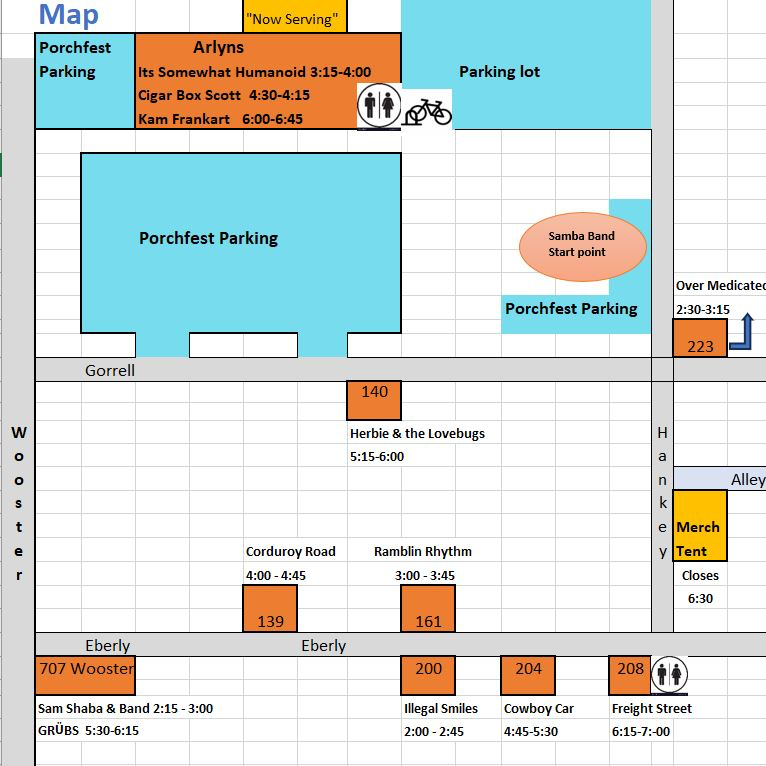
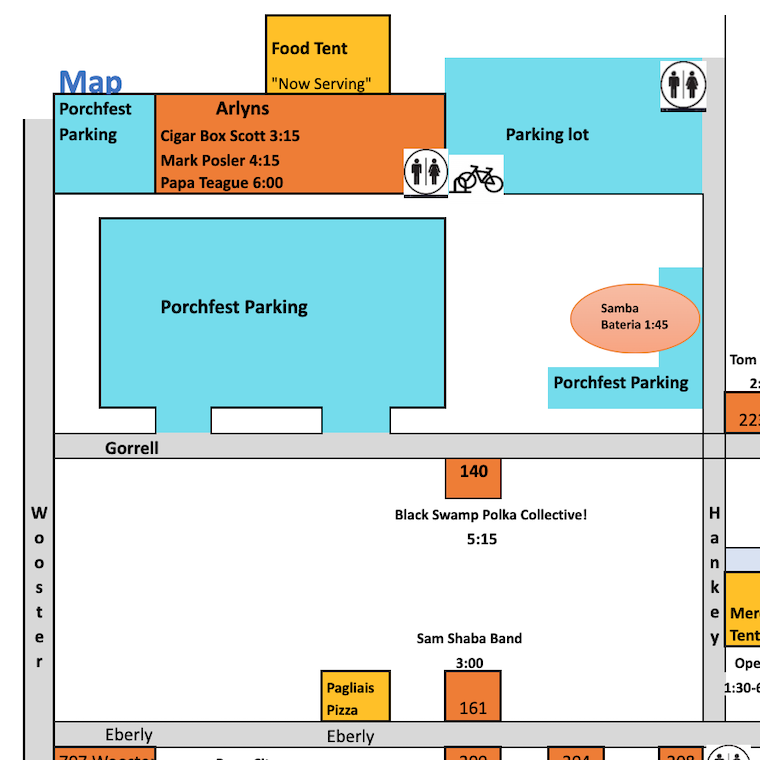
2025 Updates

diff --git a/src/app/ui/Banner.tsx b/src/app/ui/Banner.tsx
@@ -19,18 +19,18 @@ export default function Banner() {
             height={250}
             width={250}
           />
-          <div className='h-5 p-1 text-xl'>2024</div>
+          <div className='h-5 p-1 text-xl'>2025</div>
           <div className='p-1 text-5xl'>Band List</div>
         </Link>
         <Link href='/home/map' className={'mx-12 ' + linkStyle()}>
           <Image
             className='rounded-sm border-2 border-white'
-            alt='2024 Porchfest Map Thumbnail'
+            alt='2025 Porchfest Map Thumbnail'
             src='/PorchfestMap_Small.png'
             height={250}
             width={250}
           />
-          <div className='h-5 p-1 text-xl'>2024</div>
+          <div className='h-5 p-1 text-xl'>2025</div>
           <div className='p-1 text-5xl'>Porch Map</div>
         </Link>
         <Link href='/home/schedule' className={linkStyle()}>
@@ -41,7 +41,7 @@ export default function Banner() {
             height={250}
             width={250}
           />
-          <div className='h-5 p-1 text-xl'>2024</div>
+          <div className='h-5 p-1 text-xl'>2025</div>
           <div className='p-1 text-5xl'>Schedule</div>
         </Link>
       </div>

diff --git a/src/app/home/map/page.tsx b/src/app/home/map/page.tsx
@@ -20,20 +20,20 @@ export default function Map() {
         >
           <div className='flex h-full w-full flex-col items-center justify-center bg-white opacity-85'>
             <h1 className='text-center text-8xl text-dark-blue'>
-              2024 Official Map
+              2025 Official Map
             </h1>
             <h1 className='text-center text-2xl text-dark-blue'>
               (Eberly Avenue and the surrounding area)
             </h1>
           </div>
         </div>
-        <div className='m-8 rounded-3xl border-t-4 border-base-orange bg-white'>
+        <div className='m-8 w-3/4 rounded-3xl border-4 border-dark-blue bg-white'>
           <Link href={mapImg.src} target='_blank'>
             <Image
               src={mapImg}
               className='m-auto rounded-2xl px-4 py-2'
               quality={100}
-              alt='2024 Porchfest Map'
+              alt='2025 Porchfest Map'
             />
           </Link>
         </div>

diff --git a/src/app/ui/SponsorTiles.tsx b/src/app/ui/SponsorTiles.tsx
@@ -29,7 +29,7 @@ export default function SponsorTiles() {
             ' my-6 w-fit border-b-4 px-2 text-center text-2xl text-white'
           }
         >
-          GOLD
+          PLATINUM
         </div>
         <div className='flex flex-row justify-center'>
           <Link
@@ -93,7 +93,7 @@ export default function SponsorTiles() {
             ' my-4 w-fit border-b-4 px-2 text-center text-xl text-white'
           }
         >
-          SILVER
+          GOLD
         </div>
         <div className='flex flex-row justify-center py-2'>
           <Link
@@ -160,7 +160,7 @@ export default function SponsorTiles() {
             ' my-2 w-fit border-b-4 px-2 text-center text-lg text-white'
           }
         >
-          BRONZE
+          SILVER
         </div>
         <div className='flex flex-row flex-wrap justify-center'>
           {silverSponsors.map((sponsor, index) => {

diff --git a/src/app/home/schedule/page.tsx b/src/app/home/schedule/page.tsx
@@ -12,9 +12,9 @@ export default async function Schedule() {
           className='flex h-72 w-full flex-row justify-center bg-white'
         >
           <div className='flex h-full w-full flex-col items-center justify-center bg-white opacity-85'>
-            <h1 className='text-center text-8xl text-dark-blue'>2024 Lineup</h1>
+            <h1 className='text-center text-8xl text-dark-blue'>2025 Lineup</h1>
             <h1 className='text-center text-4xl text-dark-blue'>
-              Saturday, June 8th
+              Saturday, May 31st
             </h1>
           </div>
         </div>

diff --git a/src/app/home/about/page.tsx b/src/app/home/about/page.tsx
@@ -17,7 +17,7 @@ export default async function About() {
         >
           <div className='flex h-full w-full flex-col items-center justify-center bg-white opacity-85'>
             <h1 className='text-center text-8xl text-dark-blue'>
-              2024 Band List
+              2025 Band List
             </h1>
             <h1 className='text-center text-xl text-dark-blue'>
               (Click on a Band for more info)

diff --git a/src/app/ui/NavBar.tsx b/src/app/ui/NavBar.tsx
@@ -3,6 +3,7 @@
 import '../globals.css';
 import Link from 'next/link';
 import { usePathname } from 'next/navigation';
+//import { Bowlby_One_SC } from 'next/font/google';
 import { Lilita_One } from 'next/font/google';
 import clsx from 'clsx';
 import Image from 'next/image';

diff --git a/src/app/ui/PhotoGrid.tsx b/src/app/ui/PhotoGrid.tsx
@@ -1,4 +1,5 @@
 'use client';
+
 import { Gallery, Image } from 'react-grid-gallery';
 
 export default function PhotoGrid() {
